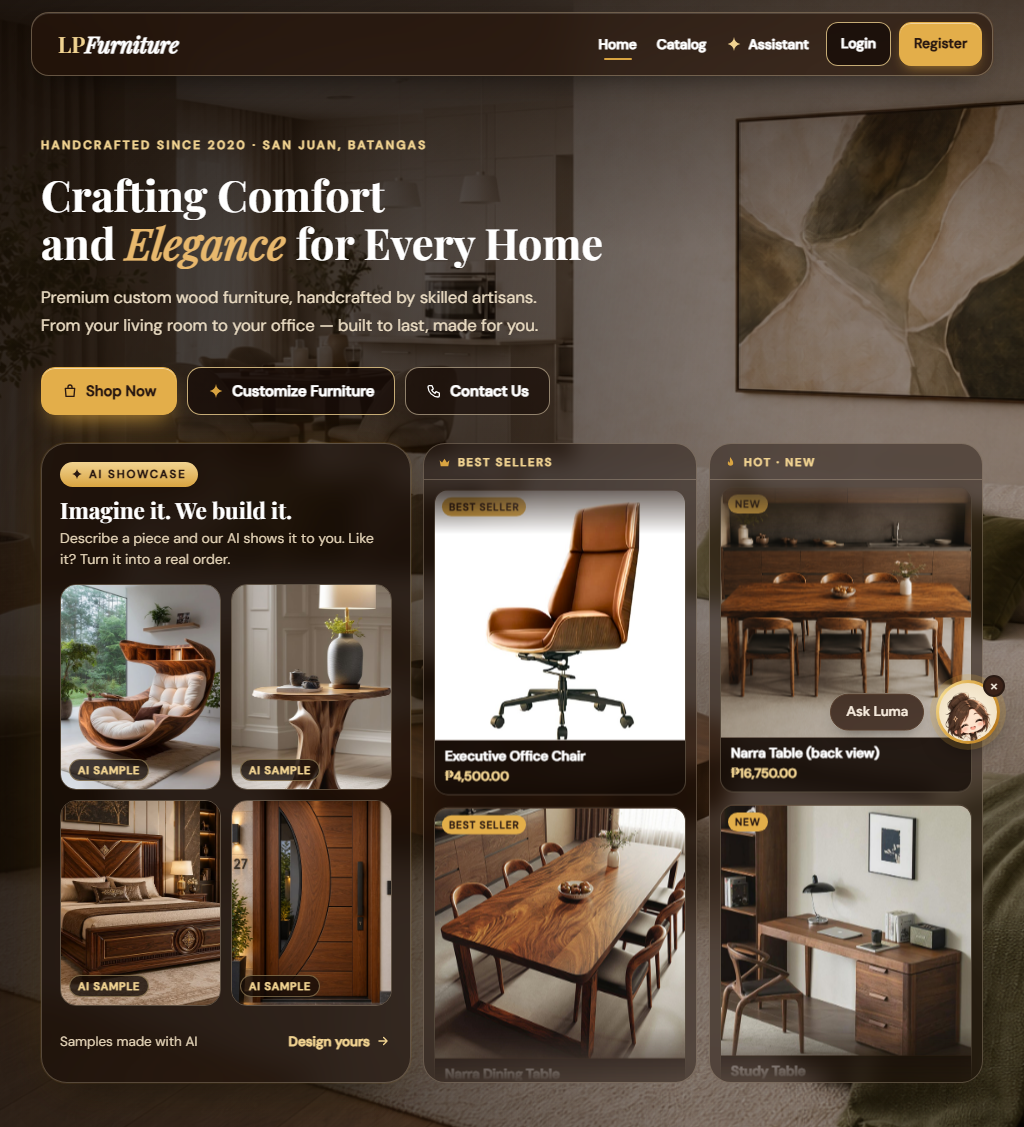
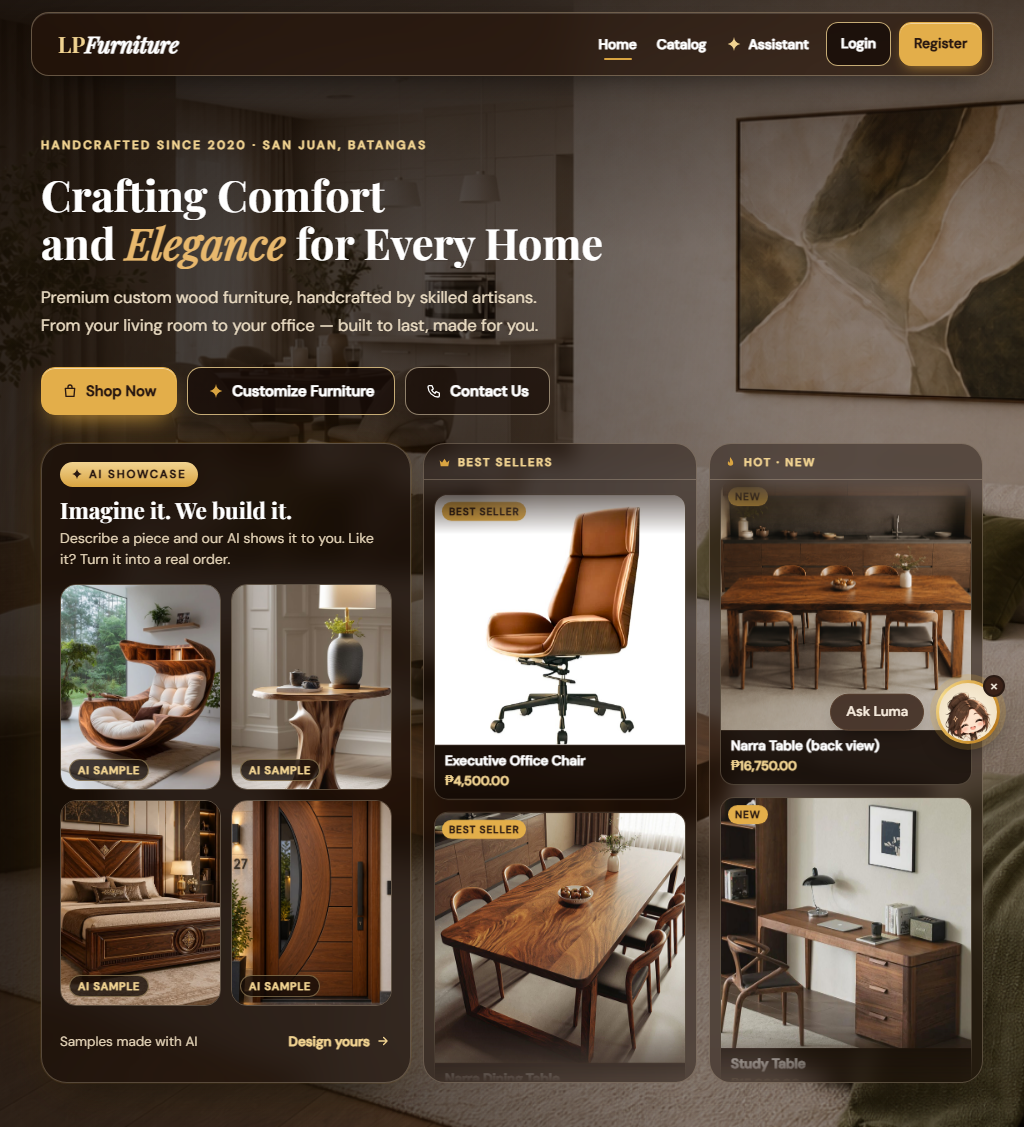
Hero: panel height 100vh - 187px so the Luma launcher clears the bottom-right panel
Claude-Session: https://claude.ai/code/session_01Xd3NeGTdKAQ8MMApu9zrU8

Changed region(s): [[0.4062, 0.4348, 0.9688, 0.9627], [0.625, 0.9317, 0.6562, 0.9627], [0.4375, 0.9317, 0.4688, 0.9627]]

diff --git a/public/assets/css/home-hero.css b/public/assets/css/home-hero.css
@@ -51,7 +51,7 @@
 @media (min-width: 1100px) {
   .lp-hero {
     /* about 820px on a 1080p screen, scaled with the viewport, never under 560px */
-    --lp-panel-h: min(820px, max(560px, calc(100vh - 150px)));
+    --lp-panel-h: min(820px, max(560px, calc(100vh - 187px)));
   }
   .lp-hero__stage {
     grid-template-columns: minmax(380px, .8fr) minmax(0, 1.6fr); grid-template-rows: auto; align-content: start; align-items: start;
